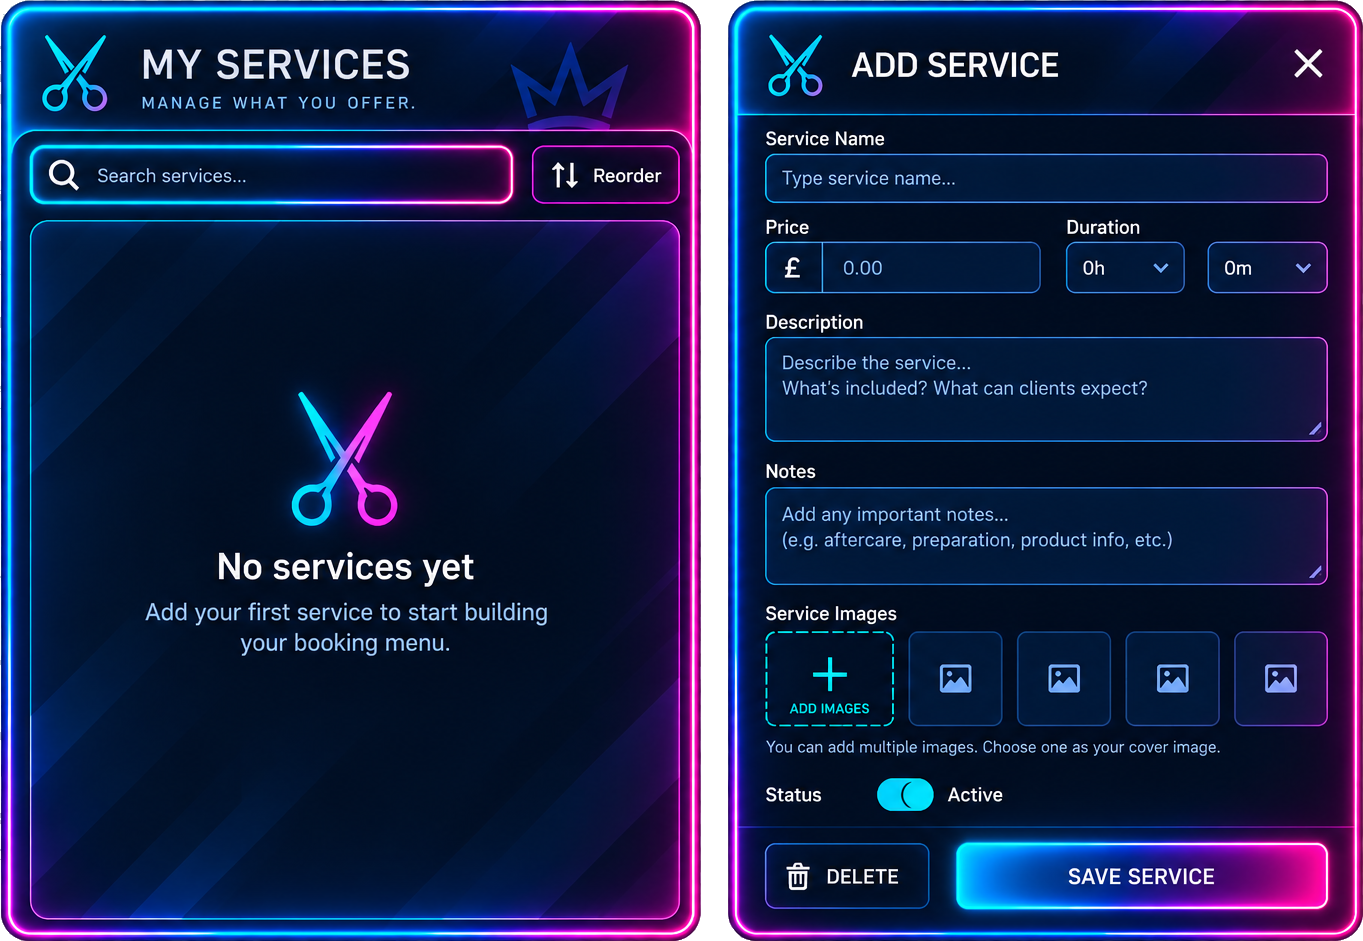
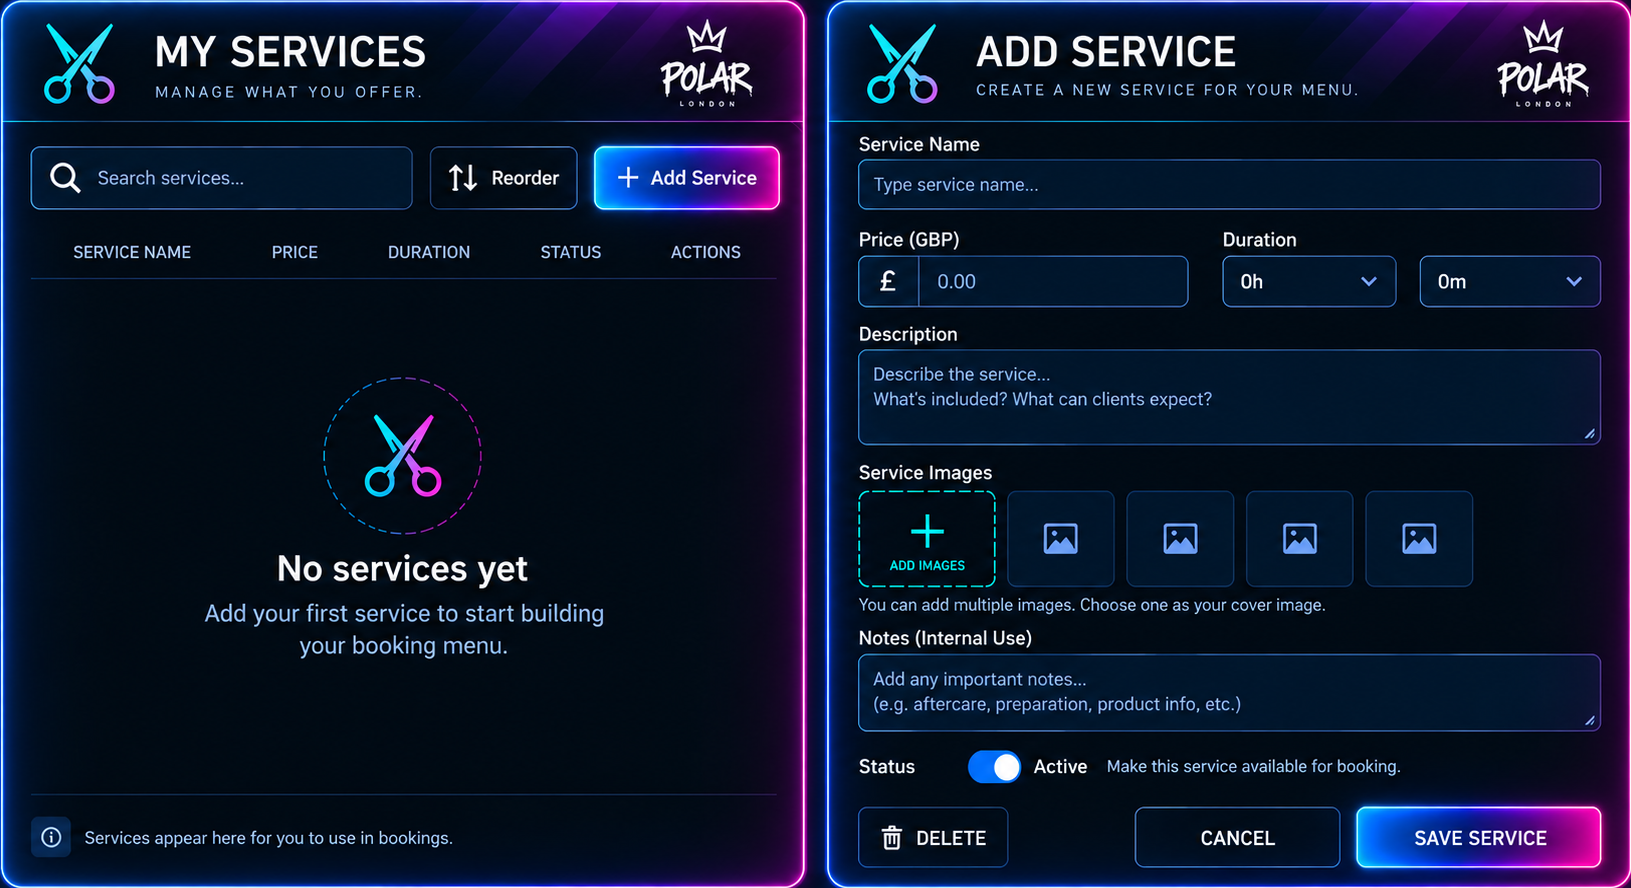
Replace My Services mastered artwork with new wider/shorter asset
Swaps public/dashboard/polar-barber-services-ui-mastered.png for the new
approved two-panel design and re-measures every hit area against its own
canvas (1631x888, cropped tight from the supplied 1672x941 file — a thin
opaque dark margin this time, not a checkerboard, so no alpha conversion
was needed).

Sizing/position: this asset's own ratio (1631:888) is wider than the
previous one, so it's now sized from a fixed height (68dvh) with width
derived from its aspect ratio, and bottom-aligned with a small bottom
margin — leaving deliberate clear space above so the room background's
own POLAR LONDON wall sign stays visible, per the new design's intent.

New baked controls picked up in this pass: a header "+ Add Service"
button and a "Cancel" button both reset the right panel to its default
new-service state (replacing the previous version's corner "X", which
this artwork no longer has). All other hit areas (search, reorder, list,
name/price/duration/description/notes, image slots, status, delete,
save) are repositioned to match the new layout; the underlying
functionality, data, and Supabase schema/storage are unchanged.

diff --git a/src/app/dashboard/barber/services/services-manager.tsx b/src/app/dashboard/barber/services/services-manager.tsx
@@ -28,39 +28,42 @@ export type ServiceWithImages = {
 // Layer 1 = full-bleed background (reused, decorative only), Layer 2
 // = the locked, mastered two-panel Services UI PNG (the sole visual
 // source of truth — nothing below recreates its cards/icons/
-// typography), Layer 3 = real hit areas/data on top. This asset's own
-// canvas (1363x941 — cropped tight to content; the raw supplied file
-// had ~20% dead space from a baked-in "transparency" checkerboard,
-// same issue as the Clients asset) is used at its own aspect ratio.
-const ASSET_ASPECT = "1363 / 941";
+// typography), Layer 3 = real hit areas/data on top. This is the
+// second mastered asset for this page — wider and shorter than the
+// first — cropped tight to its own content (1631x888; the raw
+// supplied file had a thin ~1-3% opaque dark margin around the two
+// panels, not a checkerboard this time, so no alpha conversion was
+// needed) and used at its own aspect ratio.
+const ASSET_ASPECT = "1631 / 888";
 
 // Every box below is measured directly against this asset's own
 // cropped canvas (pixel-level border scan), same technique used for
 // the Barber Dashboard/Clients overlays.
-const SEARCH_BOX = { left: "2.38%", top: "15.67%", width: "35.03%", height: "5.84%" };
-const REORDER_BOX = { left: "39.18%", top: "15.67%", width: "10.64%", height: "5.84%" };
-const LIST_BOX = { left: "0.73%", top: "22.58%", width: "49.89%", height: "77.05%" };
+const SEARCH_BOX = { left: "1.84%", top: "16.50%", width: "23.45%", height: "6.76%" };
+const REORDER_BOX = { left: "26.36%", top: "16.50%", width: "9.04%", height: "6.76%" };
+const ADD_SERVICE_HEADER_BOX = { left: "36.48%", top: "16.22%", width: "11.19%", height: "7.15%" };
+const LIST_BOX = { left: "1.84%", top: "32.26%", width: "45.98%", height: "65.60%" };
 
-const CLOSE_X_BOX = { left: "94.9%", top: "4.78%", width: "2.38%", height: "3.45%" };
-const TITLE_PATCH_BOX = { left: "62.77%", top: "5.05%", width: "14.86%", height: "3.45%" };
-const SERVICE_NAME_BOX = { left: "56.16%", top: "16.20%", width: "41.28%", height: "4.78%" };
-const PRICE_BOX = { left: "60.38%", top: "26.30%", width: "15.96%", height: "4.52%" };
-const HOURS_BOX = { left: "78.28%", top: "26.30%", width: "8.51%", height: "4.52%" };
-const MINUTES_BOX = { left: "88.70%", top: "26.30%", width: "8.62%", height: "4.52%" };
-const DESCRIPTION_BOX = { left: "56.16%", top: "36.03%", width: "41.28%", height: "9.56%" };
-const NOTES_BOX = { left: "56.16%", top: "51.81%", width: "41.28%", height: "9.56%" };
-const IMAGE_SLOT_TOP = "67.22%";
-const IMAGE_SLOT_HEIGHT = "9.30%";
+const TITLE_PATCH_BOX = { left: "59.81%", top: "2.98%", width: "15.94%", height: "3.94%" };
+const SERVICE_NAME_BOX = { left: "52.61%", top: "18.36%", width: "45.53%", height: "4.90%" };
+const PRICE_BOX = { left: "56.28%", top: "28.49%", width: "16.55%", height: "6.19%" };
+const HOURS_BOX = { left: "74.92%", top: "28.49%", width: "10.73%", height: "6.19%" };
+const MINUTES_BOX = { left: "87.09%", top: "28.49%", width: "11.04%", height: "6.19%" };
+const DESCRIPTION_BOX = { left: "52.61%", top: "39.30%", width: "45.53%", height: "10.70%" };
+const NOTES_BOX = { left: "52.61%", top: "73.54%", width: "45.53%", height: "8.00%" };
+const IMAGE_SLOT_TOP = "55.35%";
+const IMAGE_SLOT_HEIGHT = "10.70%";
 const IMAGE_SLOTS = [
-  { left: "56.16%", width: "9.35%" },
-  { left: "66.54%", width: "6.97%" },
-  { left: "74.98%", width: "6.05%" },
-  { left: "82.50%", width: "6.86%" },
-  { left: "90.76%", width: "6.68%" },
+  { left: "52.61%", width: "8.52%" },
+  { left: "61.74%", width: "6.56%" },
+  { left: "69.16%", width: "6.44%" },
+  { left: "76.45%", width: "6.50%" },
+  { left: "83.81%", width: "6.50%" },
 ];
-const STATUS_TOGGLE_BOX = { left: "64.42%", top: "84.22%", width: "4.04%", height: "3.19%" };
-const DELETE_BUTTON_BOX = { left: "56.16%", top: "92.72%", width: "12.11%", height: "5.31%" };
-const SAVE_BUTTON_BOX = { left: "70.29%", top: "92.72%", width: "27.15%", height: "5.31%" };
+const STATUS_TOGGLE_BOX = { left: "59.66%", top: "84.35%", width: "2.61%", height: "3.38%" };
+const DELETE_BUTTON_BOX = { left: "52.61%", top: "91.95%", width: "9.20%", height: "7.04%" };
+const CANCEL_BUTTON_BOX = { left: "69.47%", top: "91.95%", width: "12.72%", height: "7.04%" };
+const SAVE_BUTTON_BOX = { left: "83.29%", top: "91.95%", width: "14.84%", height: "7.04%" };
 
 const PATCH_FILL = "#01112a";
 const LIST_FILL = "#010e25";
@@ -256,10 +259,17 @@ export function ServicesManager({ services }: { services: ServiceWithImages[] })
           aria-hidden="true"
         />
 
-        <div className="absolute inset-0 flex items-center justify-center overflow-hidden">
+        {/* This mastered asset is wider/shorter than the Dashboard/My
+            Profile/Clients ones, so — per instruction — it's sized
+            from height alone (not the usual min(100%, height-derived)
+            formula, which would let its wide ratio push width to
+            100% and height too close to the full viewport) and
+            bottom-aligned, leaving deliberate clear space above for
+            the room background's own POLAR LONDON wall sign. */}
+        <div className="absolute inset-0 flex items-end justify-center overflow-hidden">
           <div
             className="relative"
-            style={{ width: `min(100%, calc(100dvh * ${ASSET_ASPECT}))`, aspectRatio: ASSET_ASPECT }}
+            style={{ height: "68dvh", maxWidth: "90%", aspectRatio: ASSET_ASPECT, marginBottom: "4dvh" }}
           >
             <Image
               src="/dashboard/polar-barber-services-ui-mastered.png"
@@ -292,6 +302,16 @@ export function ServicesManager({ services }: { services: ServiceWithImages[] })
               onClick={() => setReorderMode((v) => !v)}
               className={HIT_AREA_CLASS}
               style={{ ...REORDER_BOX, boxShadow: reorderMode ? "0 0 0 2px rgba(91,155,255,0.7), 0 0 18px 4px rgba(91,155,255,0.5)" : undefined }}
+            />
+
+            {/* Add Service — resets the right panel to its default
+                "new service" state, same as Cancel below. */}
+            <button
+              type="button"
+              aria-label="Add service"
+              onClick={() => setSelectedId(null)}
+              className={HIT_AREA_CLASS}
+              style={ADD_SERVICE_HEADER_BOX}
             />
 
             {/* Services list — only rendered with real rows once
@@ -369,14 +389,6 @@ export function ServicesManager({ services }: { services: ServiceWithImages[] })
             {/* Add/Edit Service form */}
             <form key={selectedId ?? "new"} onSubmit={handleSave}>
               <input type="hidden" name="service_id" value={selectedId ?? ""} />
-
-              <button
-                type="button"
-                aria-label="Reset to Add Service"
-                onClick={() => setSelectedId(null)}
-                className={HIT_AREA_CLASS}
-                style={CLOSE_X_BOX}
-              />
 
               {/* The baked title reads "ADD SERVICE" — patched with
                   real text so it correctly reads "EDIT SERVICE" once
@@ -537,6 +549,14 @@ export function ServicesManager({ services }: { services: ServiceWithImages[] })
                 onClick={handleDelete}
                 className={`${HIT_AREA_CLASS} disabled:pointer-events-none disabled:opacity-40`}
                 style={DELETE_BUTTON_BOX}
+              />
+
+              <button
+                type="button"
+                aria-label="Cancel"
+                onClick={() => setSelectedId(null)}
+                className={HIT_AREA_CLASS}
+                style={CANCEL_BUTTON_BOX}
               />
 
               <button
